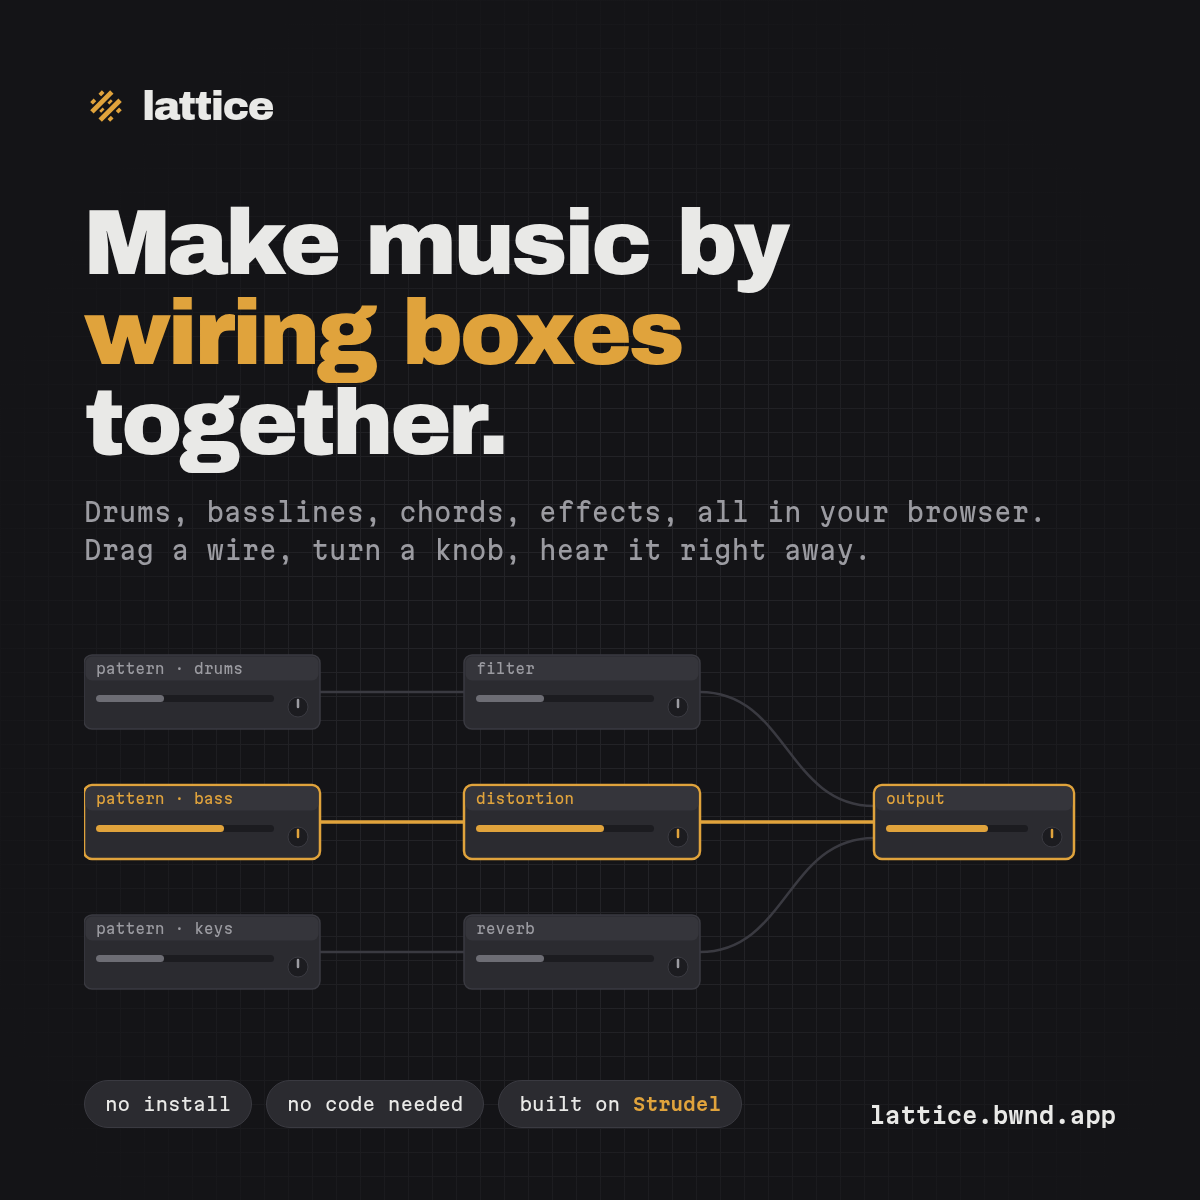
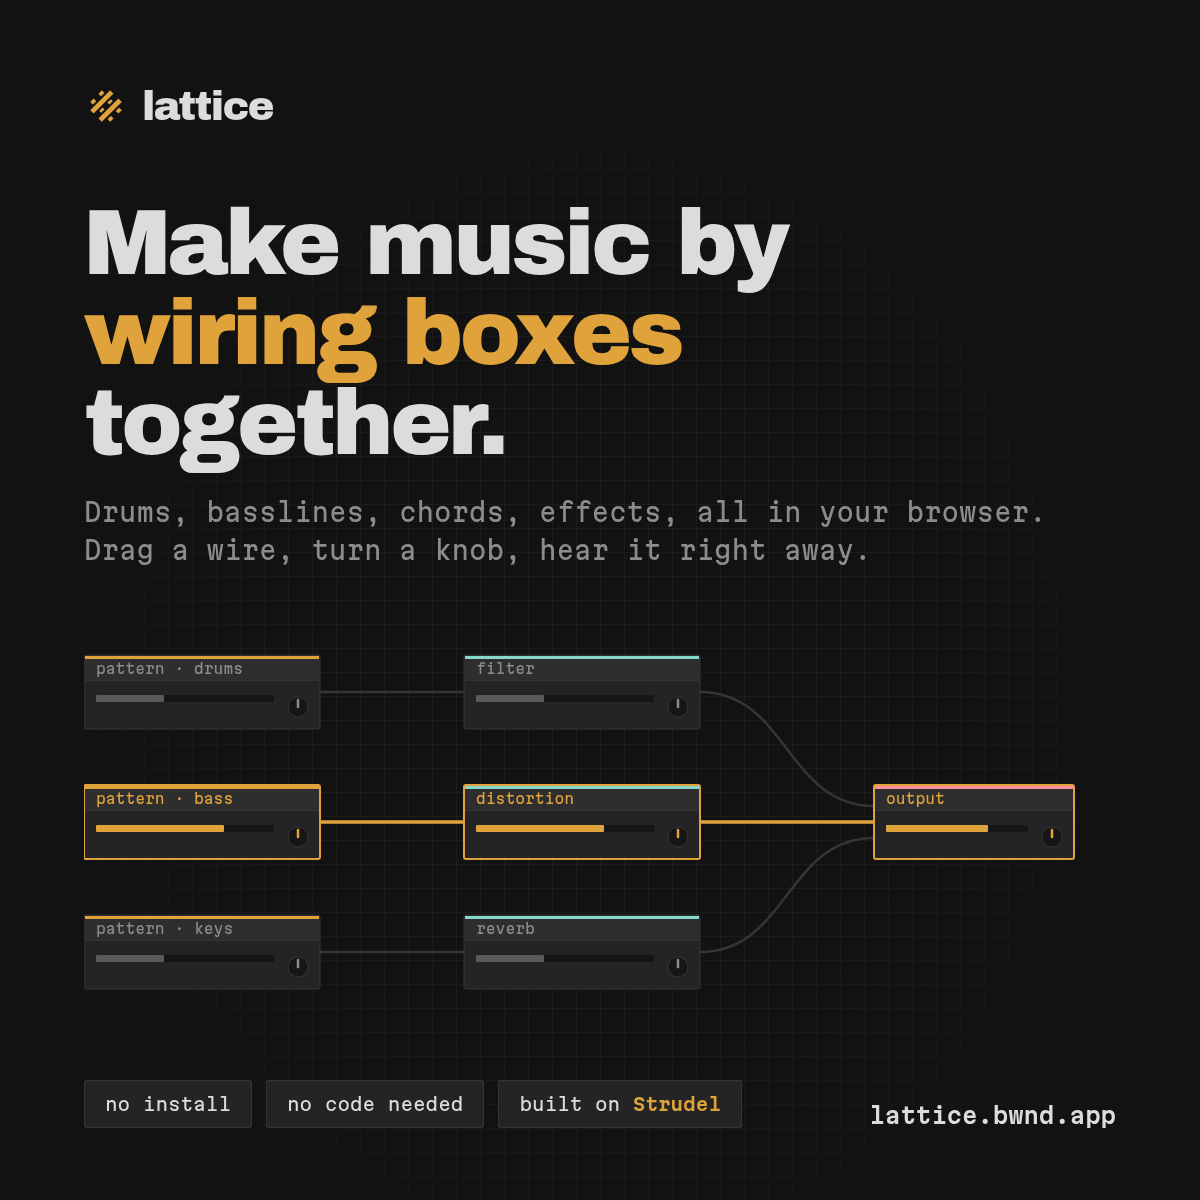
Reddit images in the flat look

diff --git a/tools/brand/reddit.html b/tools/brand/reddit.html
@@ -10,9 +10,10 @@
 <link rel="stylesheet" href="https://fonts.googleapis.com/css2?family=Archivo+Black&family=Martian+Mono:wght@400;600&display=swap">
 <style>
   :root {
-    --shell: #232327; --panel: #2b2b30; --raised: #35353b; --sunk: #1c1c20;
-    --canvas: #141417; --well: #0f0f12; --line: #3a3a41;
-    --paper: #e9e9e7; --muted: #9b9ba1; --dim: #6d6d74; --acid: #e0a33c;
+    /* the flat look's tokens (frontend/src/flat.css) */
+    --shell: #1c1c1c; --panel: #242424; --raised: #2e2e2e; --sunk: #161616;
+    --canvas: #121212; --well: #0d0d0d; --line: #353535;
+    --paper: #dcdcdc; --muted: #8c8c8c; --dim: #5a5a5a; --acid: #e0a33c;
     --p1: #6cc9ff; --p2: #ff8fb1; --p3: #8de88d;
   }
   * { box-sizing: border-box; margin: 0; }
@@ -41,7 +42,7 @@
   .brand b { font-family: "Archivo Black"; font-size: 40px; letter-spacing: -1.5px; font-weight: 400; }
   .kicker { display: inline-flex; align-items: center; gap: 10px; margin-top: 64px;
     font-size: 20px; color: var(--acid); letter-spacing: 3px; text-transform: uppercase; }
-  .kicker i { width: 10px; height: 10px; border-radius: 50%; background: var(--acid); box-shadow: 0 0 14px var(--acid); }
+  .kicker i { width: 10px; height: 10px; border-radius: 0; background: var(--acid); }
   h1 { font-family: "Archivo Black"; font-weight: 400; font-size: 92px; line-height: 0.98;
     letter-spacing: -3.5px; margin-top: 18px; }
   h1 em { font-style: normal; color: var(--acid); }
@@ -51,14 +52,14 @@
   .foot { display: flex; justify-content: space-between; align-items: flex-end; gap: 24px; }
   .points { display: flex; gap: 14px; flex-wrap: wrap; }
   .pt { font-size: 18px; color: var(--paper); background: var(--panel); border: 1.5px solid var(--line);
-    border-radius: 999px; padding: 12px 20px; }
+    border-radius: 2px; padding: 12px 20px; }
   .pt b { color: var(--acid); font-weight: 600; }
   .url { font-size: 22px; color: var(--muted); white-space: nowrap; }
   .url b { color: var(--paper); font-weight: 600; }
 
   /* the four views */
   .views { display: grid; grid-template-columns: 1fr 1fr; gap: 22px; width: 100%; }
-  .view { background: var(--shell); border: 1.5px solid var(--line); border-radius: 14px; overflow: hidden; }
+  .view { background: var(--shell); border: 1px solid var(--line); border-radius: 2px; overflow: hidden; }
   .view header { display: flex; justify-content: space-between; padding: 14px 18px; background: var(--panel);
     border-bottom: 1.5px solid var(--line); font-size: 19px; }
   .view header span { color: var(--dim); font-size: 15px; }
@@ -121,8 +122,10 @@
 
 <script>
 const C = {
-  shell: '#232327', panel: '#2b2b30', raised: '#35353b', sunk: '#1c1c20', canvas: '#141417',
-  line: '#3a3a41', paper: '#e9e9e7', muted: '#9b9ba1', dim: '#6d6d74', acid: '#e0a33c',
+  shell: '#1c1c1c', panel: '#242424', raised: '#2e2e2e', sunk: '#161616', canvas: '#121212',
+  line: '#353535', paper: '#dcdcdc', muted: '#8c8c8c', dim: '#5a5a5a', acid: '#e0a33c',
+  // node families, as a strip on the head (flat.css)
+  source: '#e0a33c', effect: '#86d8cc', output: '#ff8fa3',
   p1: '#6cc9ff', p2: '#ff8fb1', p3: '#8de88d',
 }
 
@@ -135,12 +138,14 @@ document.querySelectorAll('[data-mark]').forEach((s) => { s.setAttribute('viewBo
 
 const node = (x, y, w, label, { lit = false, h = 74, ring = null } = {}) => `
   <g transform="translate(${x} ${y})">
-    ${ring ? `<rect x="-6" y="-6" width="${w + 12}" height="${h + 12}" rx="10" fill="none" stroke="${ring}" stroke-width="2.5" stroke-dasharray="7 5"/>` : ''}
-    <rect width="${w}" height="${h}" rx="8" fill="${C.panel}" stroke="${lit ? C.acid : C.line}" stroke-width="${lit ? 2.5 : 1.5}"/>
-    <rect x="1.5" y="1.5" width="${w - 3}" height="24" rx="6.5" fill="${C.raised}"/>
+    ${ring ? `<rect x="-6" y="-6" width="${w + 12}" height="${h + 12}" rx="2" fill="none" stroke="${ring}" stroke-width="2" stroke-dasharray="7 5"/>` : ''}
+    <rect width="${w}" height="${h}" rx="2" fill="${C.panel}" stroke="${lit ? C.acid : C.line}" stroke-width="${lit ? 2 : 1}"/>
+    <rect x="1" y="1" width="${w - 2}" height="24" fill="${C.raised}"/>
+    <rect x="1" y="1" width="${w - 2}" height="3" fill="${/^pattern/.test(label) ? C.source : label === 'output' ? C.output : C.effect}"/>
+    <path d="M1 25.5H${w - 1}" stroke="${C.line}"/>
     <text x="12" y="19" font-family="Martian Mono" font-size="14" fill="${lit ? C.acid : C.muted}">${label}</text>
-    <rect x="12" y="40" width="${w - 58}" height="7" rx="3.5" fill="${C.sunk}"/>
-    <rect x="12" y="40" width="${Math.round((w - 58) * (lit ? 0.72 : 0.38))}" height="7" rx="3.5" fill="${lit ? C.acid : C.dim}"/>
+    <rect x="12" y="40" width="${w - 58}" height="7" rx="1" fill="${C.sunk}"/>
+    <rect x="12" y="40" width="${Math.round((w - 58) * (lit ? 0.72 : 0.38))}" height="7" rx="1" fill="${lit ? C.acid : C.dim}"/>
     <circle cx="${w - 22}" cy="52" r="10" fill="${C.sunk}" stroke="${C.line}"/>
     <path d="M${w - 22} 45 v7" stroke="${lit ? C.acid : C.muted}" stroke-width="2.5" stroke-linecap="round"/>
   </g>`
@@ -151,7 +156,7 @@ const wire = (x1, y1, x2, y2, lit = false) => {
 const cursor = (x, y, colour, name) => `
   <g transform="translate(${x} ${y})">
     <path d="M0 0 L0 26 L7 19 L12 31 L17 29 L12 17 L22 17 Z" fill="${colour}" stroke="${C.canvas}" stroke-width="2" stroke-linejoin="round"/>
-    <rect x="20" y="28" width="${name.length * 10.5 + 22}" height="28" rx="14" fill="${colour}"/>
+    <rect x="20" y="28" width="${name.length * 10.5 + 22}" height="28" rx="2" fill="${colour}"/>
     <text x="31" y="47" font-family="Martian Mono" font-weight="600" font-size="15" fill="${C.canvas}">${name}</text>
   </g>`
 const face = (x, y, r, colour, look = 0) => `
@@ -184,7 +189,7 @@ document.getElementById('patch2').innerHTML = patch({ people: true })
 // the people in the room, bottom right, as the app's tray has them
 const tray = document.createElementNS('http://www.w3.org/2000/svg', 'svg')
 tray.setAttribute('width', 232); tray.setAttribute('height', 64)
-tray.innerHTML = `<rect width="232" height="64" rx="32" fill="${C.panel}" stroke="${C.line}" stroke-width="1.5"/>
+tray.innerHTML = `<rect x="0.5" y="0.5" width="231" height="63" rx="2" fill="${C.panel}" stroke="${C.line}"/>
   ${face(42, 32, 20, C.p1, 3)}${face(94, 32, 20, C.p2, -3)}${face(146, 32, 20, C.p3, 2)}
   <text x="182" y="38" font-family="Martian Mono" font-size="15" fill="${C.muted}">3 in</text>`
 tray.style.cssText = 'position:absolute; top:74px; right:84px; z-index:1'
@@ -195,7 +200,7 @@ document.getElementById('v-patch').innerHTML = `<g transform="translate(26 26) s
 const clips = [[0, 0, 4, C.dim], [0, 4, 4, C.dim], [0, 8, 8, C.muted], [1, 2, 6, C.acid], [1, 8, 8, C.acid], [2, 4, 4, '#86d8cc'], [2, 12, 4, '#86d8cc'], [3, 8, 8, '#c8a2ff']]
 document.getElementById('v-time').innerHTML = `
   ${[0, 4, 8, 12, 16].map((b) => `<path d="M${30 + b * 27.5} 18V232" stroke="${C.shell}" stroke-width="1.5"/>`).join('')}
-  ${clips.map(([l, s, n, c]) => `<rect x="${32 + s * 27.5}" y="${24 + l * 44}" width="${n * 27.5 - 4}" height="34" rx="5" fill="${c}" opacity="0.88"/>`).join('')}
+  ${clips.map(([l, s, n, c]) => `<rect x="${32 + s * 27.5}" y="${24 + l * 44}" width="${n * 27.5 - 4}" height="34" rx="2" fill="${c}" opacity="0.88"/>`).join('')}
   <path d="M32 222 C140 222 200 200 260 186 S 420 192 468 200" fill="none" stroke="${C.acid}" stroke-width="2.5"/>
   <path d="M250 14V236" stroke="${C.paper}" stroke-width="2"/>`
 const notes = [[0, 7, 2], [2, 9, 1], [3, 5, 3], [6, 3, 2], [8, 7, 2], [10, 10, 2], [12, 8, 1], [13, 5, 3]]
